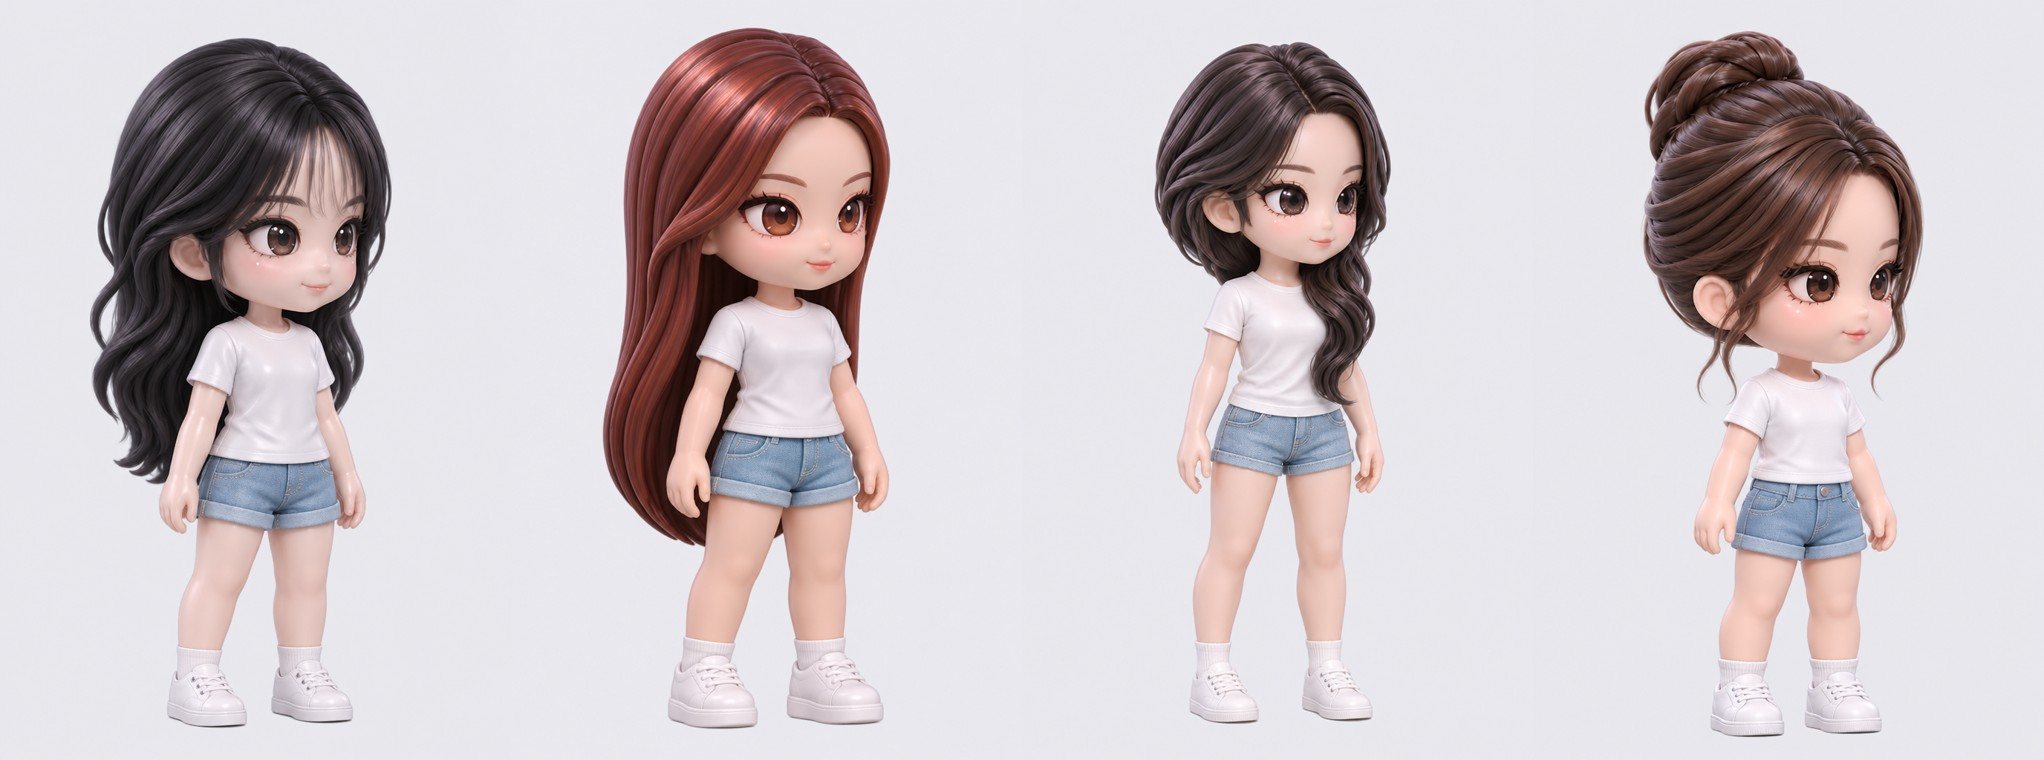
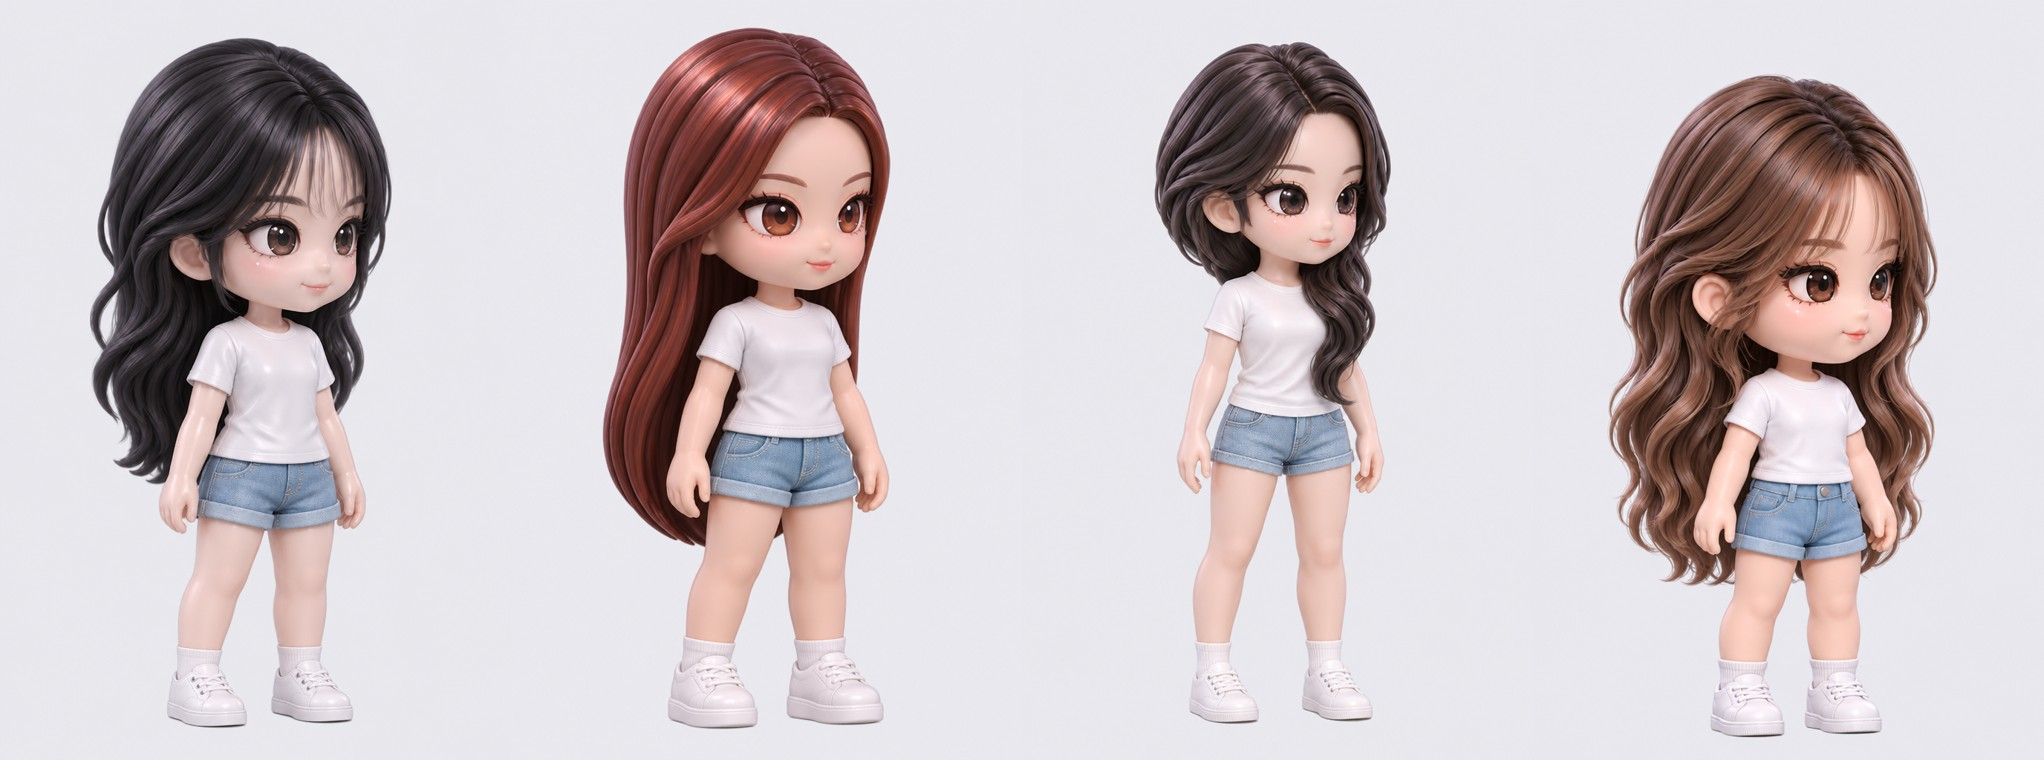
R 기본 레퍼런스 머리 모양 변경

Changed region(s): [[0.7705, 0.0303, 0.9555, 0.7868]]

diff --git a/TODO.md b/TODO.md
@@ -277,3 +277,8 @@
 - 사용자 아이디어: 내 캐릭터 꾸미기 + 상점(승점으로 코스튬 구매, 한 달 보유) + 랭크전에서 꾸민 캐릭터 사용. 캐릭터 고정은 하지 않음. 아직 설계 단계
 - `art/base-reference/Q.png`, `W.png`, `E.png`, `R.png` (688×1024)와 모아 본 `QWER-sheet.jpg` 추가. 기존 Q·W·E·R의 얼굴·머리 모양을 유지하고 옷만 흰 반팔 티, 청반바지, 흰 양말, 흰 운동화로 바꾼 기본 자세 그림. 헤드셋 등 장신구 제거
 - 게임에는 아직 쓰지 않음. 동작 그림(20장 안팎)을 만들 때 기준으로 쓸 자료. Higgsfield 이미지 4장 생성
+
+**R 기본 레퍼런스 머리 모양 변경**
+- 사용자가 준 사진의 머리 모양으로 변경: 풀어 내린 긴 밝은 갈색 웨이브, 층을 낸 옆머리, 가운데 가르마의 시스루 앞머리. `art/base-reference/R.png`가 새 버전
+- `R-alt.png`는 같은 요청의 다른 시안(앞머리가 더 옆으로 넘어감), `R-bun.png`는 이전 올림머리 버전
+- 사진 자체는 생성 서비스에 올리지 않고 머리 모양을 글로 설명해 만듦. Higgsfield 이미지 2장 추가 생성
